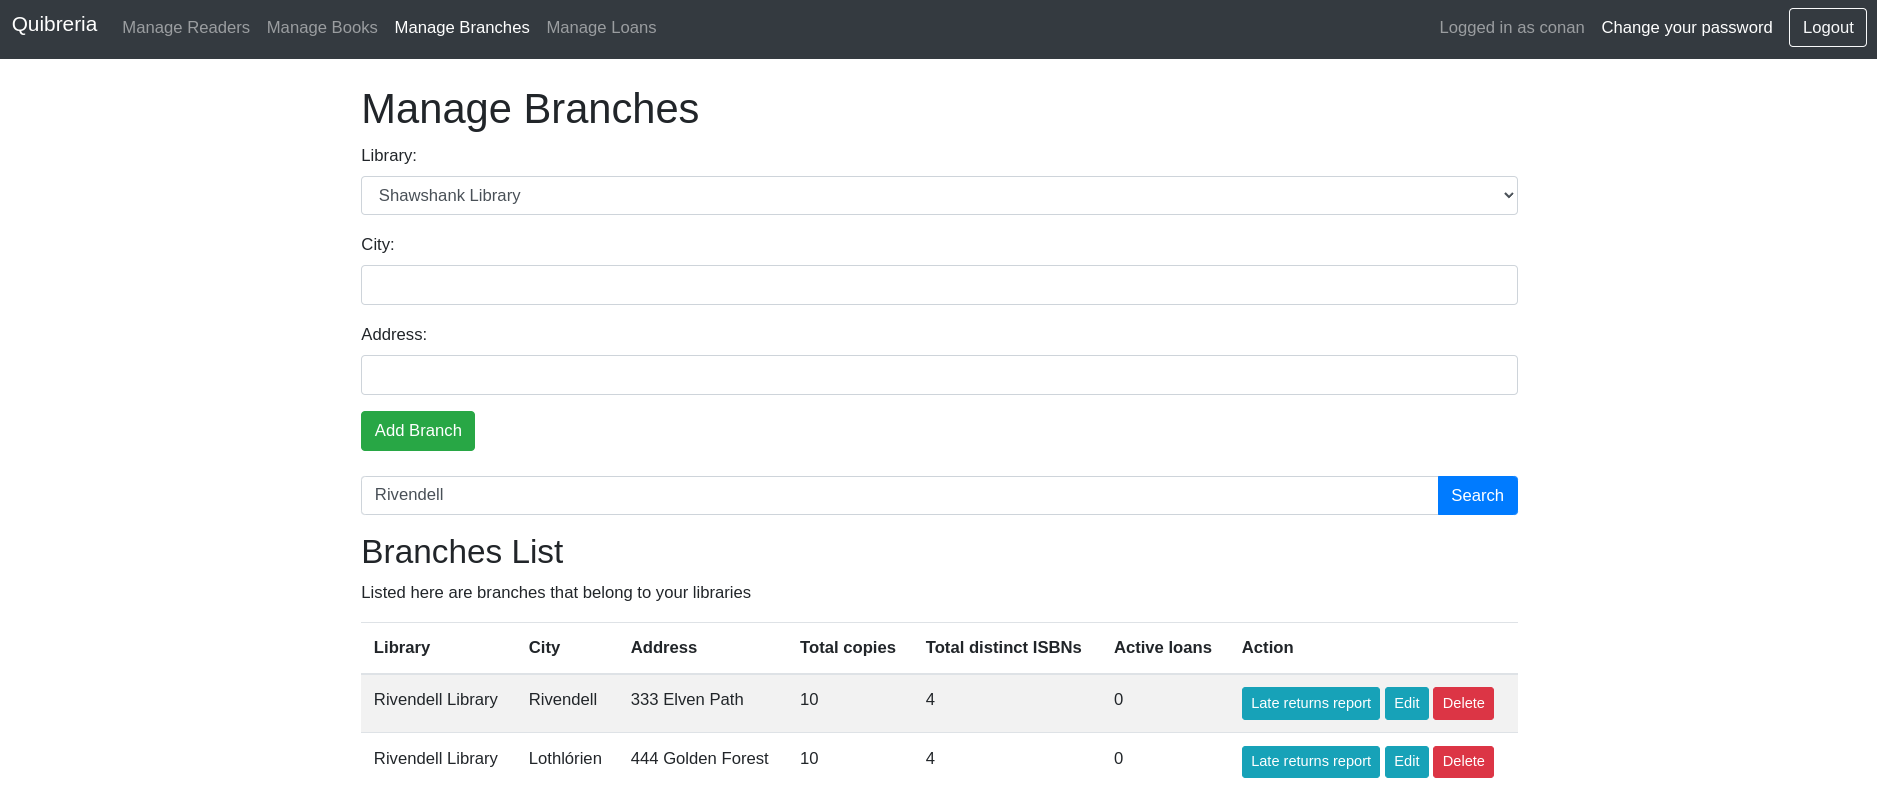
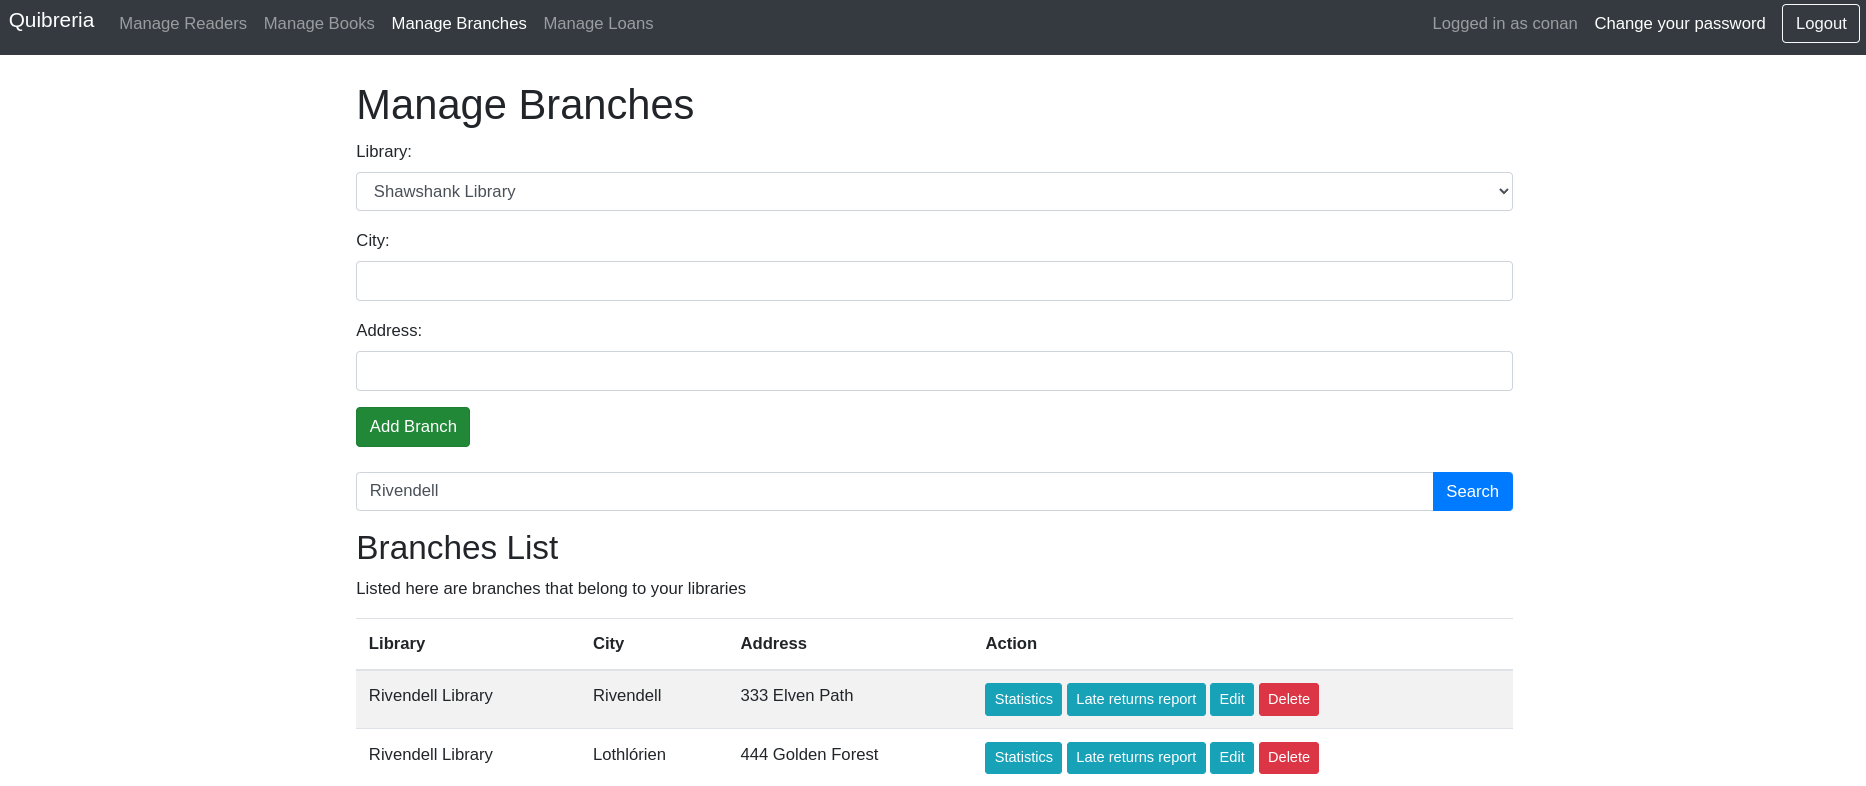
la luce in fondo al tunnel

diff --git a/src/admin/manage-branches.php b/src/admin/manage-branches.php
@@ -76,18 +76,37 @@ if (isset($_GET['edit'])) {
 
 $search = $_GET['search'] ?? '';
 if (!empty($search)) {
-    $result = pg_prepare($db, 'refresh_branch_stats', "REFRESH MATERIALIZED VIEW branch_stats;");
-    $result = pg_execute($db, 'refresh_branch_stats', []);
-
     $params = [];
     $params[] = "%$search%";
-    $query = "SELECT * FROM branch_stats WHERE city ILIKE $1 OR address ILIKE $1 OR library_name ILIKE $1;";
+    $query = "
+        SELECT b.id, b.city, b.address, l.name
+        FROM branch b
+        JOIN library l ON b.id_library = l.id
+        WHERE city ILIKE $1 OR address ILIKE $1 OR name ILIKE $1;";
     $result = pg_prepare($db, 'select_branches', $query);
     $result = pg_execute($db, 'select_branches', $params);
     $branches = [];
     if ($result) {
         while ($row = pg_fetch_assoc($result)) {
             $branches[] = $row;
+        }
+    }
+}
+
+$search_with_stats = $_GET['search-with-stats'] ?? '';
+if (!empty($search_with_stats)) {
+    $result = pg_prepare($db, 'refresh_branch_stats', "REFRESH MATERIALIZED VIEW branch_stats;");
+    $result = pg_execute($db, 'refresh_branch_stats', []);
+
+    $params = [];
+    $params[] = $search_with_stats;
+    $query = "SELECT * FROM branch_stats WHERE id = $1;";
+    $result = pg_prepare($db, 'select_branches_with_stats', $query);
+    $result = pg_execute($db, 'select_branches_with_stats', $params);
+    $branches_with_stats = [];
+    if ($result) {
+        while ($row = pg_fetch_assoc($result)) {
+            $branches_with_stats[] = $row;
         }
     }
 }
@@ -144,10 +163,11 @@ if (!empty($search)) {
             </div>
         </form>
 
-        <h2>Branches List</h2>
-        <p>Listed here are branches that belong to your libraries</p>
-        <table class="table table-striped">
-            <thead>
+        <?php if (!empty($_GET['search-with-stats'])) { ?>
+            <h2>Branches List With Stats</h2>
+            <p>Listed here are branches stats that belong to your libraries</p>
+            <table class="table table-striped">
+                <thead>
                 <tr>
                     <th>Library</th>
                     <th>City</th>
@@ -155,32 +175,62 @@ if (!empty($search)) {
                     <th>Total copies</th>
                     <th>Total distinct ISBNs</th>
                     <th>Active loans</th>
-                    <th>Action</th>
                 </tr>
-            </thead>
-            <tbody>
-                <?php foreach ($branches as $branch): ?>
-                <tr>
-                    <td><?= htmlspecialchars($branch['library_name']); ?></td>
-                    <td><?= htmlspecialchars($branch['city']); ?></td>
-                    <td><?= htmlspecialchars($branch['address']); ?></td>
-                    <td><?= htmlspecialchars($branch['total_copies']); ?></td>
-                    <td><?= htmlspecialchars($branch['total_distinct_isbn']); ?></td>
-                    <td><?= htmlspecialchars($branch['active_loans']); ?></td>
-                    <td class="text-nowrap">
-                        <a href="manage-branches-late-returns-report.php?id_branch=<?= $branch['id']; ?>" class="btn btn-info btn-sm">Late returns report</a>
-                        <a href="?edit=<?= $branch['id']; ?>" class="btn btn-info btn-sm">Edit</a>
-                        <a href="?delete=<?= $branch['id']; ?>" class="btn btn-danger btn-sm" onclick="return confirm('Are you sure you want to delete this branch?')">Delete</a>
-                    </td>
-                </tr>
+                </thead>
+                <tbody>
+                <?php foreach ($branches_with_stats as $branch): ?>
+                    <tr>
+                        <td><?= htmlspecialchars($branch['name']); ?></td>
+                        <td><?= htmlspecialchars($branch['city']); ?></td>
+                        <td><?= htmlspecialchars($branch['address']); ?></td>
+                        <td><?= htmlspecialchars($branch['total_copies']); ?></td>
+                        <td><?= htmlspecialchars($branch['total_distinct_isbn']); ?></td>
+                        <td><?= htmlspecialchars($branch['active_loans']); ?></td>
+                    </tr>
                 <?php endforeach; ?>
                 <?php
-                if (empty($branches)) {
-                    echo "<tr><td colspan='7' class='text-center'>No branches found</td></tr>";
+                if (empty($branches_with_stats)) {
+                    echo "<tr><td colspan='6' class='text-center'>No branches found</td></tr>";
                 }
                 ?>
-            </tbody>
-        </table>
+                </tbody>
+            </table>
+        <?php } ?>
+
+        <?php if (empty($_GET['search-with-stats'])) { ?>
+            <h2>Branches List</h2>
+            <p>Listed here are branches that belong to your libraries</p>
+            <table class="table table-striped">
+                <thead>
+                    <tr>
+                        <th>Library</th>
+                        <th>City</th>
+                        <th>Address</th>
+                        <th>Action</th>
+                    </tr>
+                </thead>
+                <tbody>
+                    <?php foreach ($branches as $branch): ?>
+                    <tr>
+                        <td><?= htmlspecialchars($branch['name']); ?></td>
+                        <td><?= htmlspecialchars($branch['city']); ?></td>
+                        <td><?= htmlspecialchars($branch['address']); ?></td>
+                        <td class="text-nowrap">
+                            <a href="?search-with-stats=<?= $branch['id']; ?>" class="btn btn-info btn-sm">Statistics</a>
+                            <a href="manage-branches-late-returns-report.php?id_branch=<?= $branch['id']; ?>" class="btn btn-info btn-sm">Late returns report</a>
+                            <a href="?edit=<?= $branch['id']; ?>" class="btn btn-info btn-sm">Edit</a>
+                            <a href="?delete=<?= $branch['id']; ?>" class="btn btn-danger btn-sm" onclick="return confirm('Are you sure you want to delete this branch?')">Delete</a>
+                        </td>
+                    </tr>
+                    <?php endforeach; ?>
+                    <?php
+                    if (empty($branches)) {
+                        echo "<tr><td colspan='4' class='text-center'>No branches found</td></tr>";
+                    }
+                    ?>
+                </tbody>
+            </table>
+        <?php } ?>
     </div>
 </body>
 </html>

diff --git a/src/reader/loan-books.php b/src/reader/loan-books.php
@@ -27,6 +27,7 @@ if ($_SERVER['REQUEST_METHOD'] === 'POST') {
             SELECT 
                 pc.id as id_physical_copy,
                 b.*, 
+                li.name as library_name,
                 br.id as id_branch,
                 br.city as branch_city,
                 br.address as branch_address,
@@ -37,12 +38,13 @@ if ($_SERVER['REQUEST_METHOD'] === 'POST') {
             JOIN author a ON a.id = ab.id_author
             JOIN physical_copy pc ON pc.id_book = b.id
             JOIN branch br ON br.id = pc.id_branch
+            JOIN library li ON li.id = br.id_library
             LEFT JOIN loan l ON l.id_physical_copy = pc.id AND l.is_returned = FALSE
             WHERE 
                 br.id_library = ANY($1) 
                 AND (b.title ILIKE $2 OR b.isbn ILIKE $2)
                 AND (l.id IS NULL OR l.is_returned = TRUE)  -- exclude copies that have an active loan
-            GROUP BY b.id, a.id, br.id, pc.id;";
+            GROUP BY b.id, a.id, br.id, pc.id, li.id;";
 
         $result = pg_prepare($db, 'search_books_query', $query);
         $result = pg_execute($db, 'search_books_query', array('{' . implode(',', $userLibraries) . '}', '%' . $searchTerm . '%'));
@@ -67,6 +69,7 @@ if ($_SERVER['REQUEST_METHOD'] === 'POST') {
                     'title' => $book['title'],
                     'isbn' => $book['isbn'],
                     'author' => $book['author'],
+                    'library_name' => $book['library_name'],
                     'branches' => []
                 ];
             }
@@ -123,9 +126,9 @@ if ($_SERVER['REQUEST_METHOD'] === 'POST') {
         <table class="table table-striped">
             <thead>
                 <tr>
-                    <th>Title</th>
-                    <th>ISBN</th>
+                    <th>Title (ISBN)</th>
                     <th>Author</th>
+                    <th>Library</th>
                     <th>Branch</th>
                     <th>Action</th>
                 </tr>
@@ -133,9 +136,12 @@ if ($_SERVER['REQUEST_METHOD'] === 'POST') {
             <tbody>
                 <?php foreach ($books as $book): ?>
                 <tr>
-                    <td><?= htmlspecialchars($book['title']); ?></td>
-                    <td><?= htmlspecialchars($book['isbn']); ?></td>
+                    <td>
+                        <?= htmlspecialchars($book['title']); ?><br />
+                        (<?= htmlspecialchars($book['isbn']); ?>)
+                    </td>
                     <td><?= htmlspecialchars($book['author']); ?></td>
+                    <td><?= htmlspecialchars($book['library_name']); ?></td>
                     <td>
                         <select name="id_branch" class="form-control">
                             <?php foreach ($book['branches'] as $branch): ?>

diff --git a/docs/technical.md b/docs/technical.md
@@ -57,6 +57,86 @@ Per fermare il servizio di PostgreSQL
 $ ./scripts/postgresql-stop.sh
 ```
 
+## Funzionalita' realizzate con strutture interne della base di dati
+
+### Blocco prestiti a lettori ritardatari
+
+**Requisito**: un prestito può essere concesso solo se il lettore che lo richiede ha meno di 5 riconsegne in ritardo all’attivo.
+
+**Implementazione**: la funzione `check_overdue_loans()` e il relativo trigger `trigger_check_overdue_loans` 
+impediscono l'inserimento di un nuovo prestito se il lettore ha già 5 o più riconsegne
+in ritardo. 
+La verifica viene effettuata controllando il numero di ritardi registrati nella 
+tabella `library_reader`.
+
+### Numero massimo di prestiti
+
+**Requisito**: I lettori di categoria "base" possono avere al massimo 3 volumi 
+in prestito, mentre i lettori di categoria "premium" possono averne al massimo 5.
+
+**Implementazione**: la funzione `ensure_max_loans()` e il relativo trigger 
+`trigger_ensure_max_loans` verificano il numero di prestiti attivi per un lettore 
+in base alla sua categoria. 
+Se il numero massimo consentito è raggiunto, il sistema genera un'eccezione e 
+impedisce il nuovo prestito.
+
+### Ritardi nelle restituzioni
+
+**Requisito**: alla restituzione di un volume, se effettuata in ritardo, 
+è necessario aggiornare il contatore dei ritardi del lettore.
+
+**Implementazione**: la funzione `update_overdue_returns()` aggiorna il contatore 
+`overdue_returns` nella tabella library_reader ogni volta che un prestito viene 
+contrassegnato come restituito (`is_returned = TRUE`) e la restituzione 
+è avvenuta dopo la data di scadenza.
+
+### Disponibilità dei volumi
+
+**Requisito**: un prestito può essere concesso solo se il volume richiesto è disponibile.
+
+**Implementazione**: la funzione `check_physical_copy_availability()` e il relativo 
+trigger `prevent_duplicate_loans` impediscono l’inserimento di un nuovo prestito 
+se la copia fisica è già in prestito (ovvero, esiste un prestito attivo per la 
+stessa copia).
+
+### Proroga della durata di un prestito
+
+**Requisito**: la proroga della durata di un prestito può essere concessa solo se 
+il prestito non è già in ritardo.
+
+**Implementazione**: la funzione `extend_loan()` consente di estendere la durata 
+di un prestito solo se la data di scadenza originale è successiva o uguale
+alla data corrente, impedendo così la proroga di prestiti già scaduti.
+
+### Selezione della sede
+
+**Requisito**: se il lettore specifica una sede per il prestito, il prestito può 
+avvenire solo su copie presenti nella sede specificata. Se non disponibili, 
+possono essere considerate copie di altre sedi previo avviso al lettore.
+
+**Implementazione**: questo requisito viene gestito dall’applicazione che interagisce
+con la base di dati. Tuttavia, la struttura della tabella `physical_copy` permette
+di verificare la disponibilità di copie presso una specifica sede prima di 
+procedere al prestito.
+
+### Statistiche per ogni sede
+
+**Requisito**: per ogni sede, è necessario mantenere il numero totale delle copie 
+gestite, il numero totale dei codici ISBN gestiti e il numero totale di prestiti attivi.
+
+**Implementazione**: la vista materializzata `branch_stats` fornisce una panoramica 
+aggiornata sulla disponibilità e l'attività di prestito di ciascuna sede, 
+aggregando i dati relativi a copie fisiche e prestiti in corso.
+
+### Ritardi per ogni sede
+
+**Requisito**: generare un report per ogni sede con i libri in prestito in ritardo
+e i lettori che li hanno in carico.
+
+**Implementazione**: la vista `overdue_readers_view` raccoglie informazioni sui 
+lettori con prestiti in ritardo, collegandoli alla sede della biblioteca a cui 
+appartengono. Questo consente di generare report dettagliati sui ritardi per ogni sede.
+
 ## Struttura del progetto
 
 Segue una spiegazione di come e' strutturato il progetto
@@ -157,6 +237,9 @@ Eventuali file condivisi sono dentro src/ stessa.
 
 ![img.png](images/librarian-manage-branches-search.png)
 <figcaption style="margin-top: -25px; font-style: italic">Manage branches, trovate le sedi di Rivendell</figcaption>
+
+![img.png](images/librarian-manage-branches-stats.png)
+<figcaption style="margin-top: -25px; font-style: italic">Manage branches, statistiche per sede di Rivendell</figcaption>
 
 ![img.png](images/librarian-manage-branches-edit.png)
 <figcaption style="margin-top: -25px; font-style: italic">Manage branches, edit</figcaption>
